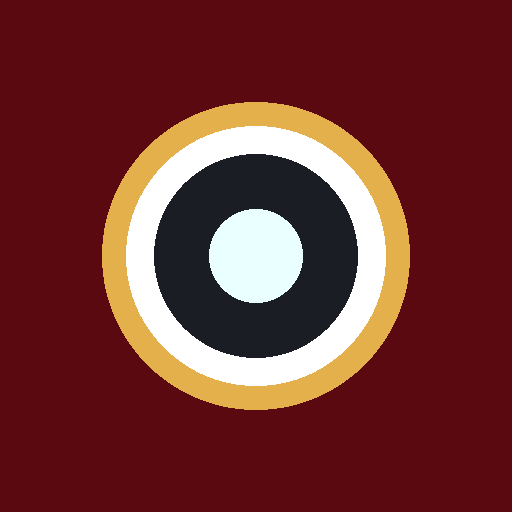
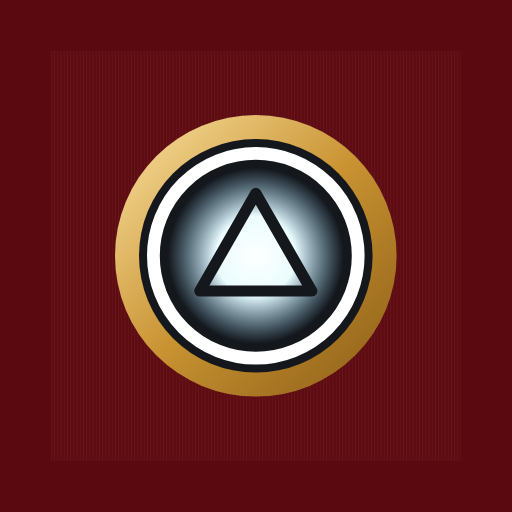
Novo ícone do app: reator escovado

Changed region(s): [[0.1875, 0.1875, 0.8125, 0.8125]]

diff --git a/sw.js b/sw.js
@@ -1,4 +1,4 @@
-const C='jarbas-202610300940';
+const C='jarbas-202610300956';
 const A=['./','index.html','manifest.webmanifest','icons/icon-192.png'];
 self.addEventListener('install',e=>{e.waitUntil(caches.open(C).then(c=>c.addAll(A)));self.skipWaiting()});
 self.addEventListener('activate',e=>{e.waitUntil(caches.keys().then(k=>Promise.all(k.filter(x=>x!==C).map(x=>caches.delete(x)))));self.clients.claim()});
